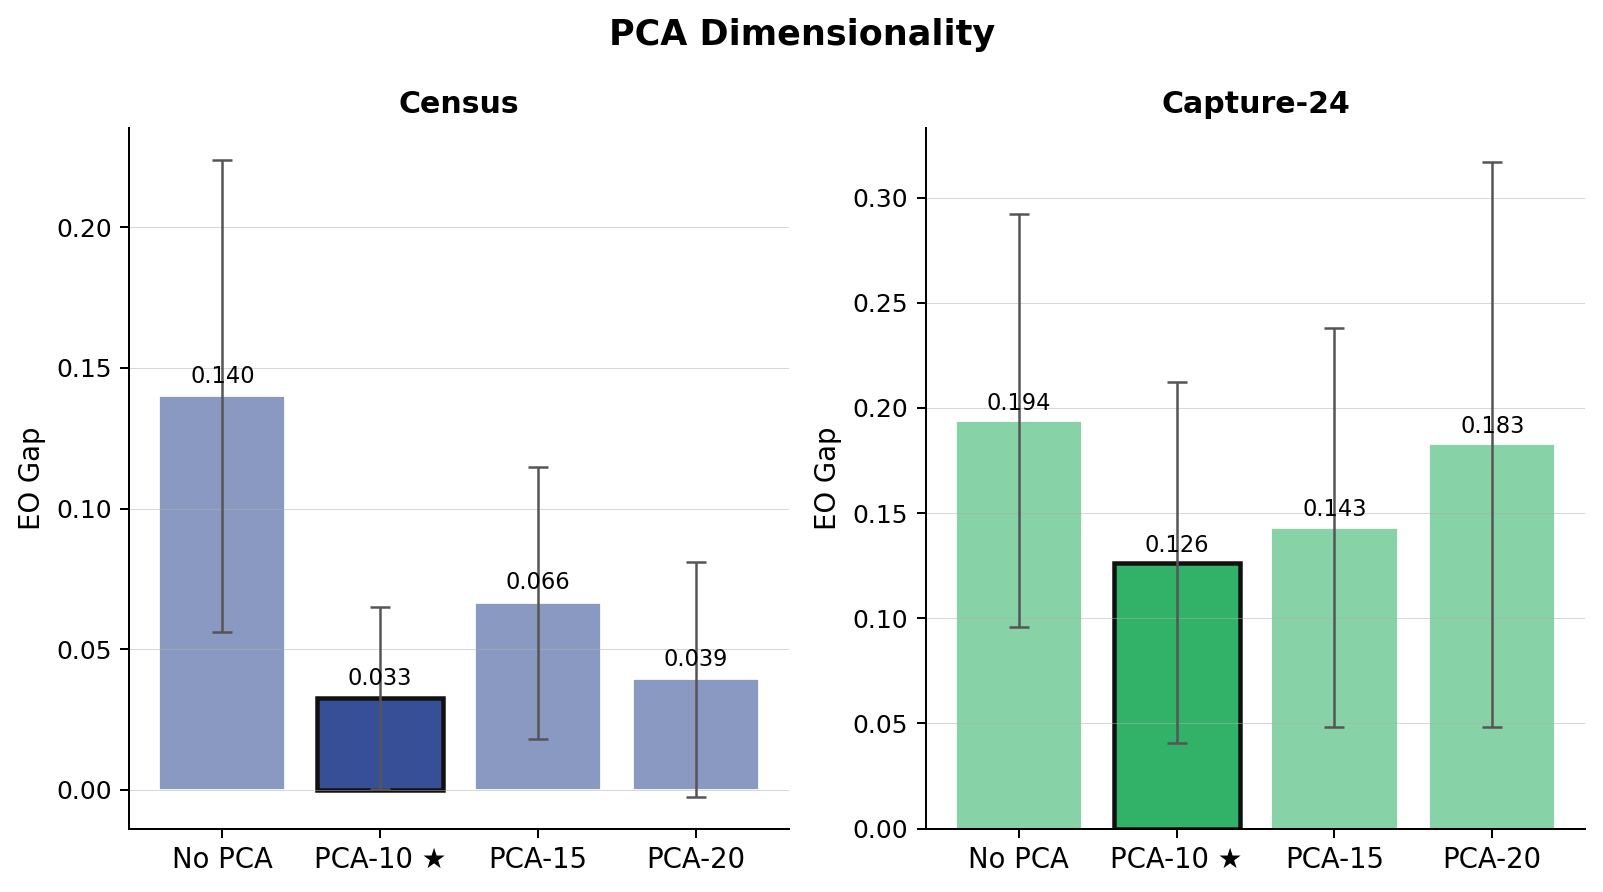
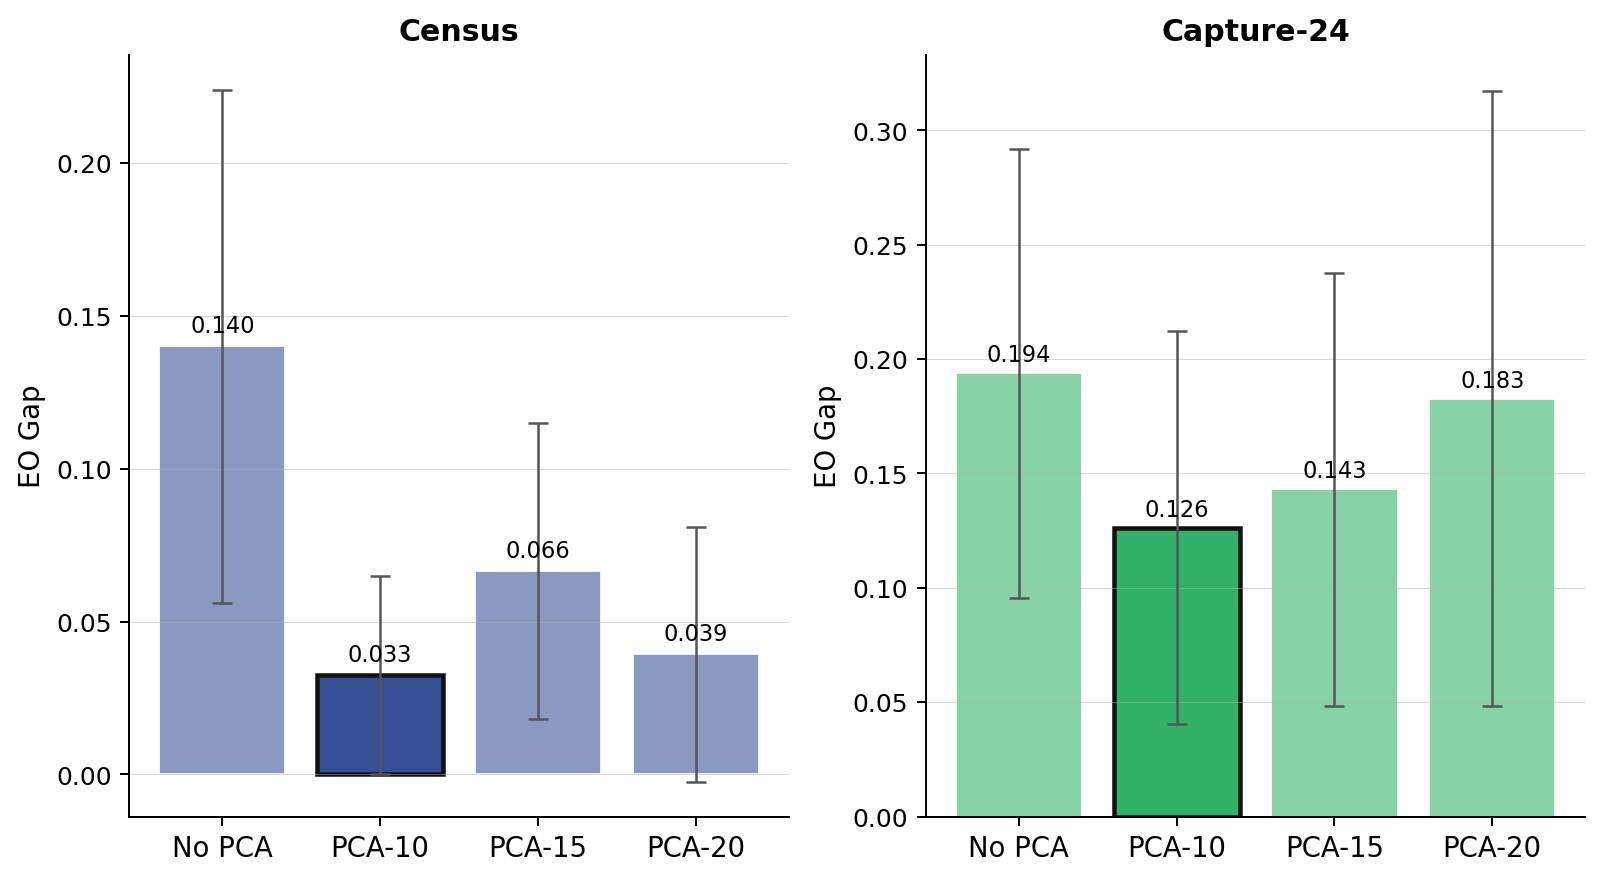
Update ablation and training curve figures; update submodule pointer

diff --git a/paper_figures_v3/generate_ablation_figures_v2.py b/paper_figures_v3/generate_ablation_figures_v2.py
@@ -65,7 +65,7 @@ COMPAS_PCA_PH = {
     "No PCA":       (0.420, 0.050),
     "PCA-8":        (0.208, 0.042),
     "PCA-9":        (0.192, 0.040),
-    "PCA-10 \u2605": (0.180, 0.040),
+    "PCA-10": (0.180, 0.040),
 }
 COMPAS_FFNN_PH = {
     "10":        (0.308, 0.051),
@@ -120,6 +120,21 @@ def get_alpha_eo(df): return stats(df, "alpha_eod_max_diff")
 def transform_eo(means, stds):
     """Return raw EO gap values unchanged."""
     return list(means), list(stds)
+
+
+def transform_eo_inverted(means, stds):
+    """Min-max normalise EO then invert: EO_inv = 1 - (EO - min)/(max - min).
+    Result is in [0,1] where 1 is best (lowest EO) and 0 is worst.
+    Stds are kept in original EO units (not rescaled) to avoid inflated error bars."""
+    means = np.array([float(m) for m in means])
+    stds  = np.array([float(s) for s in stds])
+    min_x = np.nanmin(means)
+    max_x = np.nanmax(means)
+    rng = max_x - min_x
+    if rng == 0:
+        return [1.0] * len(means), stds.tolist()
+    inv = 1.0 - (means - min_x) / rng
+    return inv.tolist(), stds.tolist()
 
 
 def save_fig(name):
@@ -208,11 +223,11 @@ EP_CHOSEN_2BAR = {"census": 0}
 
 
 def _make_ep_eo_fig(datasets, ncols, figsize, fname, show_compas_placeholder,
-                    ep_keys_override=None, ep_chosen_override=None):
+                    ep_keys_override=None, ep_chosen_override=None,
+                    transform_fn=None):
     fig, axes = plt.subplots(1, ncols, figsize=figsize)
     if ncols == 1:
         axes = [axes]
-    fig.suptitle("Episode Budget", fontsize=14, fontweight="bold")
 
     ep_keys_use   = ep_keys_override   if ep_keys_override   is not None else EP_KEYS
     ep_chosen_use = ep_chosen_override if ep_chosen_override is not None else EP_CHOSEN
@@ -246,12 +261,13 @@ def _make_ep_eo_fig(datasets, ncols, figsize, fname, show_compas_placeholder,
         if ds == "compas":
             labels = ["ep800\nph0", "ep800\nph200", "ep1500\nph400", "ep2000\nph600"]
 
-        means, stds = transform_eo(means, stds)
+        means, stds = (transform_fn or transform_eo)(means, stds)
 
         base_rgb = matplotlib.colors.to_rgb(col)
         colors = [base_rgb + (CHOSEN_ALPHA if i == chosen else OTHER_ALPHA,)
                   for i in range(len(labels))]
-        bars = make_bar_ax(ax, labels, means, stds, colors, title=DS_LABELS[ds])
+        panel_title = "Episode Budget Ablation" if ncols == 1 else DS_LABELS[ds]
+        bars = make_bar_ax(ax, labels, means, stds, colors, title=panel_title)
         bars[chosen].set_edgecolor("#111111")
         bars[chosen].set_linewidth(1.8)
         label_bars(ax, bars, means)
@@ -302,11 +318,10 @@ DELTA_LABELS = ["0.05", "0.10", "0.20", "0.50"]
 DELTA_CHOSEN = 1
 
 
-def _make_delta_fig(datasets, ncols, figsize, fname):
+def _make_delta_fig(datasets, ncols, figsize, fname, transform_fn=None):
     fig, axes = plt.subplots(1, ncols, figsize=figsize)
     if ncols == 1:
         axes = [axes]
-    fig.suptitle("Delta Scale", fontsize=14, fontweight="bold")
 
     for ci, ds in enumerate(datasets):
         seeds = EXPECTED_SEEDS[ds]
@@ -327,12 +342,13 @@ def _make_delta_fig(datasets, ncols, figsize, fname):
                     print(f"  MISSING: delta {lbl} {ds}")
             means.append(m); stds.append(s)
 
-        means, stds = transform_eo(means, stds)
+        means, stds = (transform_fn or transform_eo)(means, stds)
 
         base_rgb = matplotlib.colors.to_rgb(col)
         colors   = [base_rgb + (CHOSEN_ALPHA if i == DELTA_CHOSEN else OTHER_ALPHA,)
                     for i in range(len(DELTA_LABELS))]
-        bars = make_bar_ax(ax, DELTA_LABELS, means, stds, colors, title=DS_LABELS[ds])
+        panel_title = "Delta Scale Ablation" if ncols == 1 else DS_LABELS[ds]
+        bars = make_bar_ax(ax, DELTA_LABELS, means, stds, colors, title=panel_title)
         bars[DELTA_CHOSEN].set_edgecolor("#111111")
         bars[DELTA_CHOSEN].set_linewidth(1.8)
         label_bars(ax, bars, means)
@@ -361,12 +377,10 @@ DVRL_CONFIGS = {
 }
 
 
-def _make_dvrl_fig(datasets, ncols, figsize, fname):
+def _make_dvrl_fig(datasets, ncols, figsize, fname, transform_fn=None):
     fig, axes = plt.subplots(1, ncols, figsize=figsize)
     if ncols == 1:
         axes = [axes]
-    fig.suptitle("Global-Only vs. Local Reward Augmentation",
-                 fontsize=14, fontweight="bold")
 
     for ci, ds in enumerate(datasets):
         seeds = EXPECTED_SEEDS[ds]
@@ -390,11 +404,12 @@ def _make_dvrl_fig(datasets, ncols, figsize, fname):
         means   = [g_eo[0], d_eo[0]]
         stds    = [g_eo[1], d_eo[1]]
 
-        means, stds = transform_eo(means, stds)
+        means, stds = (transform_fn or transform_eo)(means, stds)
 
         base_rgb = matplotlib.colors.to_rgb(col)
         colors   = [base_rgb + (CHOSEN_ALPHA,), base_rgb + (OTHER_ALPHA,)]
-        bars = make_bar_ax(ax, labels, means, stds, colors, title=DS_LABELS[ds])
+        panel_title = "Local Reward Augmentation" if ncols == 1 else DS_LABELS[ds]
+        bars = make_bar_ax(ax, labels, means, stds, colors, title=panel_title)
         bars[0].set_edgecolor("#111111")
         bars[0].set_linewidth(1.8)
         label_bars(ax, bars, means)
@@ -419,26 +434,25 @@ print("Generating PCA ablation figures ...")
 PCA_CONFIGS = {
     "census": [
         ("census_raw",                   "No PCA"),
-        ("census_ep1500ph400_5s_EP1500", "PCA-10 \u2605"),
+        ("census_ep1500ph400_5s_EP1500", "PCA-10"),
         ("census_pca15",                 "PCA-15"),
         ("census_pca20",                 "PCA-20"),
     ],
     "capture24": [
         ("capture24_raw",                "No PCA"),
-        ("capture24_ep800ph200_5s_EP800","PCA-10 \u2605"),
+        ("capture24_ep800ph200_5s_EP800","PCA-10"),
         ("capture24_pca15",              "PCA-15"),
         ("capture24_pca20",              "PCA-20"),
     ],
 }
-COMPAS_PCA_ORDER = ["No PCA", "PCA-8", "PCA-9", "PCA-10 \u2605"]
+COMPAS_PCA_ORDER = ["No PCA", "PCA-8", "PCA-9", "PCA-10"]
 PCA_CHOSEN = {"census": 1, "compas": 3, "capture24": 1}
 
 
-def _make_pca_fig(datasets, ncols, figsize, fname):
+def _make_pca_fig(datasets, ncols, figsize, fname, transform_fn=None):
     fig, axes = plt.subplots(1, ncols, figsize=figsize)
     if ncols == 1:
         axes = [axes]
-    fig.suptitle("PCA Dimensionality", fontsize=14, fontweight="bold")
 
     for ci, ds in enumerate(datasets):
         seeds  = EXPECTED_SEEDS[ds]
@@ -462,12 +476,13 @@ def _make_pca_fig(datasets, ncols, figsize, fname):
                     print(f"  MISSING: pca {key} {ds}")
                 means.append(m); stds.append(s); labels.append(lbl)
 
-        means, stds = transform_eo(means, stds)
+        means, stds = (transform_fn or transform_eo)(means, stds)
 
         base_rgb = matplotlib.colors.to_rgb(col)
         colors   = [base_rgb + (CHOSEN_ALPHA if i == chosen else OTHER_ALPHA,)
                     for i in range(len(labels))]
-        bars = make_bar_ax(ax, labels, means, stds, colors, title=DS_LABELS[ds])
+        panel_title = "PCA Dimensionality Ablation" if ncols == 1 else DS_LABELS[ds]
+        bars = make_bar_ax(ax, labels, means, stds, colors, title=panel_title)
         bars[chosen].set_edgecolor("#111111")
         bars[chosen].set_linewidth(1.8)
         label_bars(ax, bars, means)
@@ -505,12 +520,10 @@ COMPAS_FFNN_ORDER = ["10", "20 \u2605", "50"]
 FFNN_CHOSEN = 1
 
 
-def _make_ffnn_fig(datasets, ncols, figsize, fname):
+def _make_ffnn_fig(datasets, ncols, figsize, fname, transform_fn=None):
     fig, axes = plt.subplots(1, ncols, figsize=figsize)
     if ncols == 1:
         axes = [axes]
-    fig.suptitle("Beta Classifier Training Epochs",
-                 fontsize=14, fontweight="bold")
 
     for ci, ds in enumerate(datasets):
         seeds = EXPECTED_SEEDS[ds]
@@ -533,16 +546,17 @@ def _make_ffnn_fig(datasets, ncols, figsize, fname):
                     print(f"  MISSING: ffnn {key} {ds}")
                 means.append(m); stds.append(s); labels.append(lbl)
 
-        means, stds = transform_eo(means, stds)
+        means, stds = (transform_fn or transform_eo)(means, stds)
 
         base_rgb = matplotlib.colors.to_rgb(col)
         colors   = [base_rgb + (CHOSEN_ALPHA if i == FFNN_CHOSEN else OTHER_ALPHA,)
                     for i in range(len(labels))]
-        bars = make_bar_ax(ax, labels, means, stds, colors, title=DS_LABELS[ds])
+        panel_title = "Classifier Epochs Ablation" if ncols == 1 else DS_LABELS[ds]
+        bars = make_bar_ax(ax, labels, means, stds, colors, title=panel_title)
         bars[FFNN_CHOSEN].set_edgecolor("#111111")
         bars[FFNN_CHOSEN].set_linewidth(1.8)
         label_bars(ax, bars, means)
-        ax.set_xlabel("Beta epochs", fontsize=11)
+        ax.set_xlabel("Classifier Epochs", fontsize=11)
 
     if "compas" in datasets:
         pending_note(fig)
@@ -554,6 +568,34 @@ def _make_ffnn_fig(datasets, ncols, figsize, fname):
 _make_ffnn_fig(DATASETS_3, 3, (13, 5), "fig_ffnn_ablation_v3_large.png")
 _make_ffnn_fig(DATASETS_2, 2, (9,  5), "fig_ffnn_ablation_nodataset.png")
 _make_ffnn_fig(DATASETS_1, 1, (5,  5), "fig_ffnn_ablation_census.png")
+
+
+# ─────────────────────────────────────────────────────────────────────────────
+# EO Inverted variants (census only)
+# EO_inv = 1 - (EO - min) / (max - min)  →  higher is better
+# ─────────────────────────────────────────────────────────────────────────────
+print("Generating EO inverted figures (census only) ...")
+
+_make_ep_eo_fig(DATASETS_1, 1, (5, 5),
+                "fig_episode_ablation_eo_inverted_census.png",
+                show_compas_placeholder=False,
+                transform_fn=transform_eo_inverted)
+
+_make_delta_fig(DATASETS_1, 1, (5, 5),
+                "fig_delta_ablation_eo_inverted_census.png",
+                transform_fn=transform_eo_inverted)
+
+_make_dvrl_fig(DATASETS_1, 1, (5, 5),
+               "fig_dvrl_ablation_eo_inverted_census.png",
+               transform_fn=transform_eo_inverted)
+
+_make_pca_fig(DATASETS_1, 1, (5, 5),
+              "fig_pca_ablation_eo_inverted_census.png",
+              transform_fn=transform_eo_inverted)
+
+_make_ffnn_fig(DATASETS_1, 1, (5, 5),
+               "fig_ffnn_ablation_eo_inverted_census.png",
+               transform_fn=transform_eo_inverted)
 
 
 print("\nAll enhanced ablation figures done.")

diff --git a/paper_figures_v3/generate_training_curves_census.py b/paper_figures_v3/generate_training_curves_census.py
@@ -66,12 +66,11 @@ def load_full(path):
 
 # ── figure ─────────────────────────────────────────────────────────────────────
 
-fig, axes_row = plt.subplots(1, 2, figsize=(11, 4.5), sharey=False)
-axes = np.array([[axes_row[0], axes_row[1]]])
-fig.suptitle("Episode Return — Census Income (5 seeds)",
-             fontsize=13, fontweight="bold")
+fig, axes_col = plt.subplots(2, 1, figsize=(6, 9), sharey=False)
+axes = np.array([[axes_col[0]], [axes_col[1]]])
+fig.suptitle("Episode Return", fontsize=13, fontweight="bold")
 
-panel_order = [(0,0), (0,1)]
+panel_order = [(0,0), (1,0)]
 
 for (row, col), (ep_key, cfg_label, gen_both) in zip(panel_order, EP_CONFIGS):
     ax = axes[row, col]
@@ -81,7 +80,6 @@ for (row, col), (ep_key, cfg_label, gen_both) in zip(panel_order, EP_CONFIGS):
     if run_dir is None:
         ax.text(0.5, 0.5, f"Missing:\n{ep_key}", ha="center", va="center",
                 transform=ax.transAxes, fontsize=10, color="#cc0000")
-        ax.set_title(cfg_label, fontsize=10)
         continue
 
     seed_curves = []
@@ -116,32 +114,20 @@ for (row, col), (ep_key, cfg_label, gen_both) in zip(panel_order, EP_CONFIGS):
     min_len = min(len(c) for c in seed_curves)
     arr  = np.array([c.values[:min_len] for c in seed_curves])
     eps  = seed_curves[0].index[:min_len]
-    mean = arr.mean(0)
-    std  = arr.std(0, ddof=1) if len(arr) > 1 else np.zeros_like(mean)
+    mean    = arr.mean(0)
+    arr_min = arr.min(0)
+    arr_max = arr.max(0)
 
     ax.plot(eps, mean, color=COLOR_MAIN, linewidth=2.2, zorder=5,
-            label=f"Mean (n={len(seed_curves)})")
-    ax.fill_between(eps, mean - std, mean + std,
-                    color=COLOR_MAIN, alpha=0.20, zorder=4, label="±1 std")
+            label="Mean")
+    ax.fill_between(eps, arr_min, arr_max,
+                    color=COLOR_MAIN, alpha=0.20, zorder=4, label="Min-max range")
 
     # Phase-2 boundary
     if actual_ph2_start and actual_ph2_start > 0:
         ax.axvline(actual_ph2_start, color="#cc0000", linewidth=1.5,
                    linestyle="--", alpha=0.85, zorder=6, label="Phase 2 start")
-        y_lo, y_hi = ax.get_ylim()
-        ax.text(actual_ph2_start + eps[-1] * 0.015, y_hi * 0.98,
-                "↓ ph2", color="#cc0000", fontsize=8.5, va="top", fontweight="bold")
 
-    # Reference at 0.5 (beta = alpha, no improvement)
-    ax.axhline(0.5, color="#aaaaaa", linewidth=0.9, linestyle=":",
-               label="β = α (0.5)", zorder=3)
-
-    # Title styling
-    star = "★ " if is_chosen else ""
-    title_color = "#1a4f8a" if is_chosen else "black"
-    title_weight = "bold" if is_chosen else "normal"
-    ax.set_title(f"{star}{cfg_label}", fontsize=10,
-                 fontweight=title_weight, color=title_color)
 
     ax.set_xlabel("Episode", fontsize=10)
     ax.set_ylabel("Episode return", fontsize=10)
